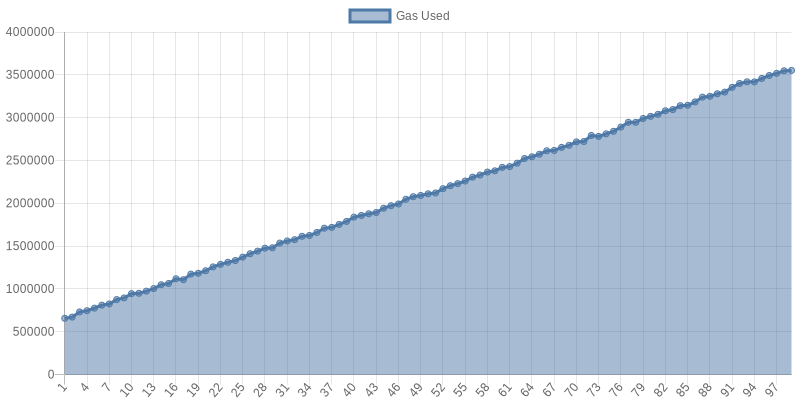
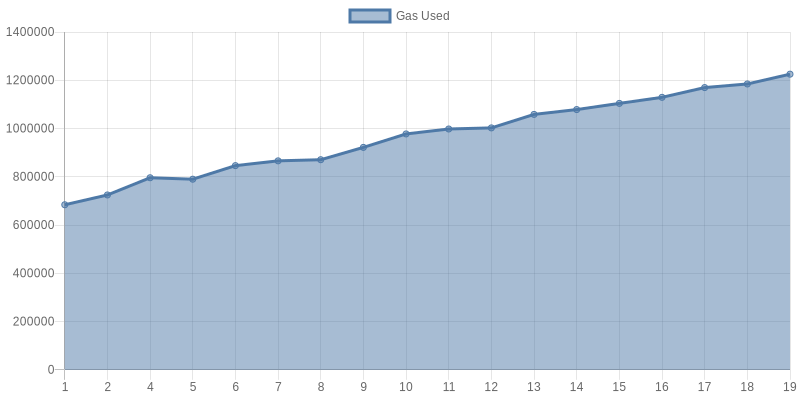
fix benchmark scripts

Changed region(s): [[0.0, 0.09, 1.0, 0.84], [0.0625, 0.9, 1.0, 0.99], [0.0, 0.06, 0.0312, 0.09]]

diff --git a/benchmarks/governance.js b/benchmarks/governance.js
@@ -16,19 +16,22 @@ const updateValidatorSetBenchmarkLadder = async function (index) {
     const Proxy = await ethers.getContractFactory("Proxy");
     const Governance = await ethers.getContractFactory("Governance");
     const Bridge = await ethers.getContractFactory("Bridge");
+    const Vault = await ethers.getContractFactory("Vault");
 
     const proxy = await Proxy.deploy();
-    const proxyAddress = proxy.address;
 
-    const governance = await Governance.deploy(1, governanceValidatorsAddresses, governanceNormalizedPowers, powerThreshold, proxyAddress);
+    const vault = await Vault.deploy(proxy.address);
+    await vault.deployed();
+
+    const governance = await Governance.deploy(1, governanceValidatorsAddresses, governanceNormalizedPowers, powerThreshold, proxy.address);
     await governance.deployed();
 
-    const bridge = await Bridge.deploy(1, bridgeValidatorsAddresses, bridgeNormalizedPowers, powerThreshold, proxyAddress);
+    const bridge = await Bridge.deploy(1, bridgeValidatorsAddresses, bridgeNormalizedPowers, bridgeValidatorsAddresses, bridgeNormalizedPowers, [], [], powerThreshold, proxy.address);
     await bridge.deployed();
 
     await proxy.addContract("governance", governance.address);
     await proxy.addContract("bridge", bridge.address);
-
+    await proxy.addContract("vault", vault.address);
     await proxy.completeContractInit();
 
     await network.provider.send("evm_mine")
@@ -45,13 +48,13 @@ const updateValidatorSetBenchmarkLadder = async function (index) {
 
     const messageHash = generateArbitraryHash(
         ["uint8", "string", "bytes32", "bytes32", "uint256"],
-        [1, "updateValidatorsSet", newBridgeValidatorSetHash, newGovernanceValidatorSetHash, 1]
+        [1, "updateValidatorsSet", newBridgeValidatorSetHash, newGovernanceValidatorSetHash, 2]
     )
 
     const signatures = await generateSignatures(bridgeSigners, messageHash);
 
     try {
-        const tx = await governance.updateValidatorsSet(currentBridgeValidatorSetArgs, newBridgeValidatorSetHash, newGovernanceValidatorSetHash, signatures)
+        const tx = await governance.updateValidatorsSet(currentBridgeValidatorSetArgs, newBridgeValidatorSetHash, newGovernanceValidatorSetHash, signatures, 2)
 
         const receipt = await tx.wait()
         const txGas = Number(receipt.gasUsed);
@@ -77,19 +80,23 @@ const updateValidatorSetBenchmarkFixed = async function (index) {
     const Proxy = await ethers.getContractFactory("Proxy");
     const Governance = await ethers.getContractFactory("Governance");
     const Bridge = await ethers.getContractFactory("Bridge");
+    const Vault = await ethers.getContractFactory("Vault");
 
     const proxy = await Proxy.deploy();
-    const proxyAddress = proxy.address;
+    await proxy.deployed()
 
-    const governance = await Governance.deploy(1, governanceValidatorsAddresses, governanceNormalizedPowers, powerThreshold, proxyAddress);
+    const vault = await Vault.deploy(proxy.address);
+    await vault.deployed();
+
+    const governance = await Governance.deploy(1, governanceValidatorsAddresses, governanceNormalizedPowers, powerThreshold, proxy.address);
     await governance.deployed();
 
-    const bridge = await Bridge.deploy(1, bridgeValidatorsAddresses, bridgeNormalizedPowers, powerThreshold, proxyAddress);
+    const bridge = await Bridge.deploy(1, bridgeValidatorsAddresses, bridgeNormalizedPowers,bridgeValidatorsAddresses, bridgeNormalizedPowers, [], [], powerThreshold, proxy.address);
     await bridge.deployed();
 
     await proxy.addContract("governance", governance.address);
     await proxy.addContract("bridge", bridge.address);
-
+    await proxy.addContract("vault", vault.address)
     await proxy.completeContractInit();
 
     await network.provider.send("evm_mine")
@@ -106,13 +113,13 @@ const updateValidatorSetBenchmarkFixed = async function (index) {
 
     const messageHash = generateArbitraryHash(
         ["uint8", "string", "bytes32", "bytes32", "uint256"],
-        [1, "updateValidatorsSet", newBridgeValidatorSetHash, newGovernanceValidatorSetHash, 1]
+        [1, "updateValidatorsSet", newBridgeValidatorSetHash, newGovernanceValidatorSetHash, 2]
     )
 
     const signatures = await generateSignatures(bridgeSigners, messageHash);
 
     try {
-        const tx = await governance.updateValidatorsSet(currentBridgeValidatorSetArgs, newBridgeValidatorSetHash, newGovernanceValidatorSetHash, signatures)
+        const tx = await governance.updateValidatorsSet(currentBridgeValidatorSetArgs, newBridgeValidatorSetHash, newGovernanceValidatorSetHash, signatures, 2)
 
         const receipt = await tx.wait()
         const txGas = Number(receipt.gasUsed);

diff --git a/benchmarks/bridge.js b/benchmarks/bridge.js
@@ -2,7 +2,7 @@ const { ethers, network } = require("hardhat");
 const { randomPowers, computeThreshold, getSignersAddresses, getSigners, normalizePowers, normalizeThreshold, generateValidatorSetArgs, generateSignatures, generateBatchTransferHash } = require("../test/utils/utilities")
 
 const trasferToERC20 = async function (index) {
-    const [_, governanceAddress] = await ethers.getSigners();
+    const [_, governanceAddress, anotherAddress] = await ethers.getSigners();
     const totalValidators = 125;
     const normalizedThreshold = normalizeThreshold();
     const powers = randomPowers(totalValidators);
@@ -15,25 +15,31 @@ const trasferToERC20 = async function (index) {
     const Proxy = await ethers.getContractFactory("Proxy");
     const Bridge = await ethers.getContractFactory("Bridge");
     const Token = await ethers.getContractFactory("Token");
+    const Vault = await ethers.getContractFactory("Vault");
 
     const proxy = await Proxy.deploy();
-    const proxyAddress = proxy.address;
+    await proxy.deployed();
 
-    const bridge = await Bridge.deploy(1, validatorsAddresses, normalizedPowers, powerThreshold, proxyAddress);
-    await bridge.deployed();
+    const vault = await Vault.deploy(proxy.address)
+    await vault.deployed()
 
-    const token = await Token.deploy("Token", "TKN", 1000000000, bridge.address);
+    const token = await Token.deploy("Token", "TKN", [1000000000], [vault.address]);
     await token.deployed();
 
+    const bridge = await Bridge.deploy(1, validatorsAddresses, normalizedPowers, validatorsAddresses, normalizedPowers, [token.address], [1000000000], powerThreshold, proxy.address);
+    await bridge.deployed();
+
     await proxy.addContract("governance", governanceAddress.address);
+    await proxy.addContract("vault", vault.address);
+    await proxy.addContract("bridge", bridge.address);
     await proxy.completeContractInit();
 
     await network.provider.send("evm_mine")
 
     const toAddresses = [...Array(index).keys()].map(_ => ethers.Wallet.createRandom().address)
     const fromAddresses = [...Array(index).keys()].map(_ => token.address)
-    const amounts = [...Array(index).keys()].map(_ => 1337)
-    const validatorSetHash = await bridge.validatorSetHash();
+    const amounts = [...Array(index).keys()].map(_ => 10)
+    const validatorSetHash = await bridge.currentValidatorSetHash();
     const batchNonce = 1;
 
     const currentValidatorSetArgs = generateValidatorSetArgs(validatorsAddresses, normalizedPowers, 0)
@@ -48,7 +54,7 @@ const trasferToERC20 = async function (index) {
     const signatures = await generateSignatures(signers, messageHash);
 
     try {
-        const tx = await bridge.transferToERC(
+        const tx = await bridge.connect(anotherAddress).transferToERC(
             currentValidatorSetArgs,
             signatures,
             fromAddresses,

diff --git a/benchmarks/index.js b/benchmarks/index.js
@@ -3,20 +3,20 @@ const { updateValidatorSetBenchmark, updateValidatorSetBenchmarkFixed } = requir
 const { trasferToERC20 } = require('./bridge')
 
 const benchmarks = [
-    // [updateValidatorSetBenchmark, {
-    //     from: 120,
-    //     to: 180,
-    //     extra: { label: "Gas Used", name: "benchmarks/updateValidatorsSet-graph.png" }
-    // }],
+    [updateValidatorSetBenchmark, {
+        from: 120,
+        to: 150,
+        extra: { label: "Gas Used", name: "benchmarks/images/updateValidatorsSet-graph.png" }
+    }],
     [trasferToERC20, {
         from: 1,
-        to: 100,
-        extra: { label: "Gas Used", name: "benchmarks/trasferToERC20-graph.png" }
+        to: 20,
+        extra: { label: "Gas Used", name: "benchmarks/images/trasferToERC20-graph.png" }
     }],
     [updateValidatorSetBenchmarkFixed, {
         from: 1,
-        to: 25,
-        extra: { label: "Gas Used", name: "benchmarks/updateValidatorsSetFixed125-graph.png" }
+        to: 15,
+        extra: { label: "Gas Used", name: "benchmarks/images/updateValidatorsSetFixed125-graph.png" }
     }],
 ]
 
